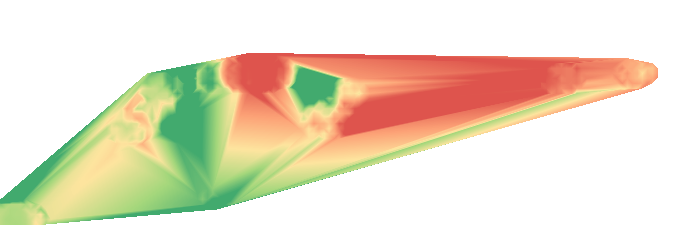
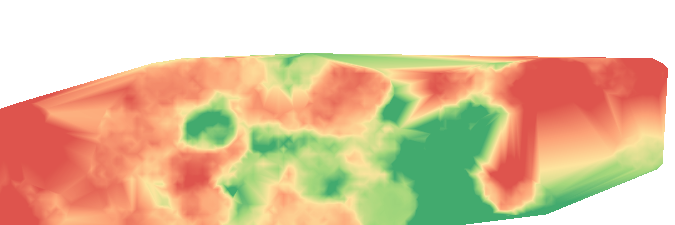
Marmara: egitim 1998-2018 GK74 declustered, test 2019-2030 M>=5 (M6.2 2025 + M5.7 2019 dahil)

diff --git a/scripts/build_marmara_test.py b/scripts/build_marmara_test.py
@@ -1,63 +1,61 @@
 """
 build_marmara_test.py
-Marmara prospektif forecast test olaylarini JSON'a yazar.
+Marmara prospektif + retrospektif forecast test olaylari.
 
-Egitim: 2016-2025 (son 10 yil, declustered katalog)
-Test  : 2026-06-23 - 2030-06-23  M>=5.0  (prospektif — gelecekte dolacak)
-
-GitHub Actions her saat calistiginda bu script de calisip
-yeni M>=5 olaylari varsa ekler.
+Egitim : 1998-2018 (GK74 declustered)
+Test   : 2019-01-01 - 2030-06-23  M>=5.0
+         Gecmis: 2019 M5.7, 2022 M6.1, 2025 M6.2 (retrospektif dogrulama)
+         Gelecek: 2026-2030 (prospektif)
 """
 
-import json
+import json, sys
 from datetime import datetime, timezone
+if sys.stdout.encoding != 'utf-8':
+    sys.stdout.reconfigure(encoding='utf-8', errors='replace')
 
-INPUT_CAT       = 'data/eq_marmara_catalog.json'
-OUTPUT          = 'data/forecast_marmara_test_events.json'
+OUTPUT = 'data/forecast_marmara_test_events.json'
 
-TEST_START_DATE = '2026-06-23'
+TEST_START_DATE = '2019-01-01'
 TEST_END_DATE   = '2030-06-23'
 TEST_MINMAG     = 5.0
 
 BOUNDS = dict(minlat=39.5, maxlat=41.5, minlon=26.0, maxlon=32.0)
 
+CATALOG_FILES = [
+    'data/eq_marmara_catalog.json',
+    'data/eq_month.json',
+    'data/eq_month_afad.json',
+    'data/eq_annual.json',
+    'data/eq_annual_usgs.json',
+]
+
 
 def main():
-    # Guncel katalog dosyalarindan M>=5 test olaylari topla
-    catalog_files = [
-        'data/eq_month.json',
-        'data/eq_month_afad.json',
-        'data/eq_annual.json',
-        'data/eq_annual_usgs.json',
-        INPUT_CAT,
-    ]
-
-    all_ev = {}  # duplikat onlemek icin key=time+lat+lon
-    for path in catalog_files:
+    all_ev = {}
+    for path in CATALOG_FILES:
         try:
             with open(path, encoding='utf-8') as f:
-                data = json.load(f)
-            for e in data.get('events', []):
-                mag = e.get('mag', 0) or e.get('mw', 0)
-                if float(mag) < TEST_MINMAG:
+                d = json.load(f)
+            for e in d.get('events', []):
+                mag = float(e.get('mag', 0) or e.get('mw', 0))
+                if mag < TEST_MINMAG:
                     continue
                 t = e.get('time', '')
                 if not t or not (TEST_START_DATE <= t[:10] <= TEST_END_DATE):
                     continue
-                lat = e.get('lat', 0)
-                lon = e.get('lon', 0)
+                lat, lon = e.get('lat', 0), e.get('lon', 0)
                 if not (BOUNDS['minlat'] <= lat <= BOUNDS['maxlat'] and
                         BOUNDS['minlon'] <= lon <= BOUNDS['maxlon']):
                     continue
-                mw  = e.get('mw') or mag
+                mw  = float(e.get('mw') or mag)
                 key = f"{t[:13]}_{round(lat,1)}_{round(lon,1)}"
                 if key not in all_ev:
                     all_ev[key] = {
                         'time' : t,
                         'lat'  : lat,
                         'lon'  : lon,
-                        'mag'  : round(float(mag), 1),
-                        'mw'   : round(float(mw), 1),
+                        'mag'  : round(mag, 1),
+                        'mw'   : round(mw, 1),
                         'dep'  : e.get('dep', 0),
                         'place': e.get('place', ''),
                         'src'  : e.get('src', ''),
@@ -67,18 +65,21 @@ def main():
 
     events = sorted(all_ev.values(), key=lambda x: x['mw'], reverse=True)
 
-    print(f'Marmara prospektif test {TEST_START_DATE} - {TEST_END_DATE} M>={TEST_MINMAG}: {len(events)} olay')
-    if events:
-        for ev in events[:5]:
-            print(f"  Mw{ev['mw']} {ev['time'][:10]} {ev['place']}")
-    else:
-        print('  Henuz test olayi yok — prospektif pencere acik')
+    today = datetime.now(timezone.utc).strftime('%Y-%m-%d')
+    retro = [e for e in events if e['time'][:10] < today]
+    prosp = [e for e in events if e['time'][:10] >= today]
+
+    print(f'Test {TEST_START_DATE} - {TEST_END_DATE} M>={TEST_MINMAG}: {len(events)} olay')
+    print(f'  Retrospektif (gecmis): {len(retro)}')
+    for ev in retro:
+        print(f"    Mw{ev['mw']} {ev['time'][:10]} {ev['place']}")
+    print(f'  Prospektif (gelecek) : {len(prosp)}')
 
     out = {
-        'generated'  : datetime.now(timezone.utc).strftime('%Y-%m-%dT%H:%M:%SZ'),
-        'description': (f'Marmara prospektif forecast: egitim 2016-2025 (son 10 yil) | '
-                        f'test {TEST_START_DATE} - {TEST_END_DATE} M>={TEST_MINMAG}'),
-        'train_period': [2016, 2025],
+        'generated'   : datetime.now(timezone.utc).strftime('%Y-%m-%dT%H:%M:%SZ'),
+        'description' : (f'Marmara forecast: egitim 1998-2018 GK74 declustered | '
+                         f'test {TEST_START_DATE}-{TEST_END_DATE} M>={TEST_MINMAG}'),
+        'train_period': [1998, 2018],
         'test_start'  : TEST_START_DATE,
         'test_end'    : TEST_END_DATE,
         'min_mag'     : TEST_MINMAG,